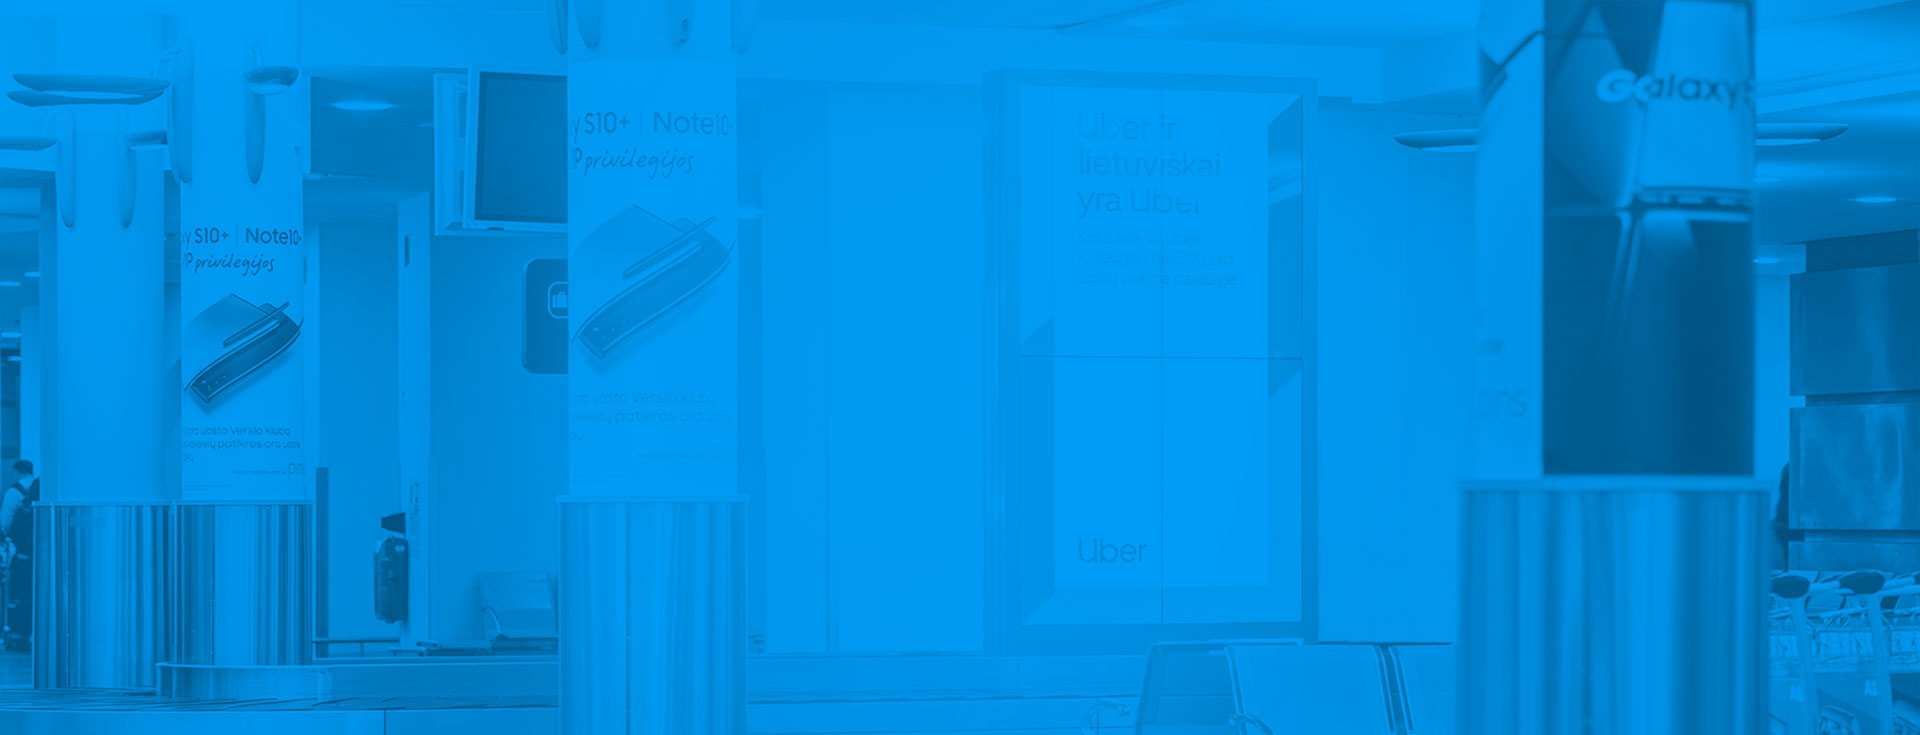
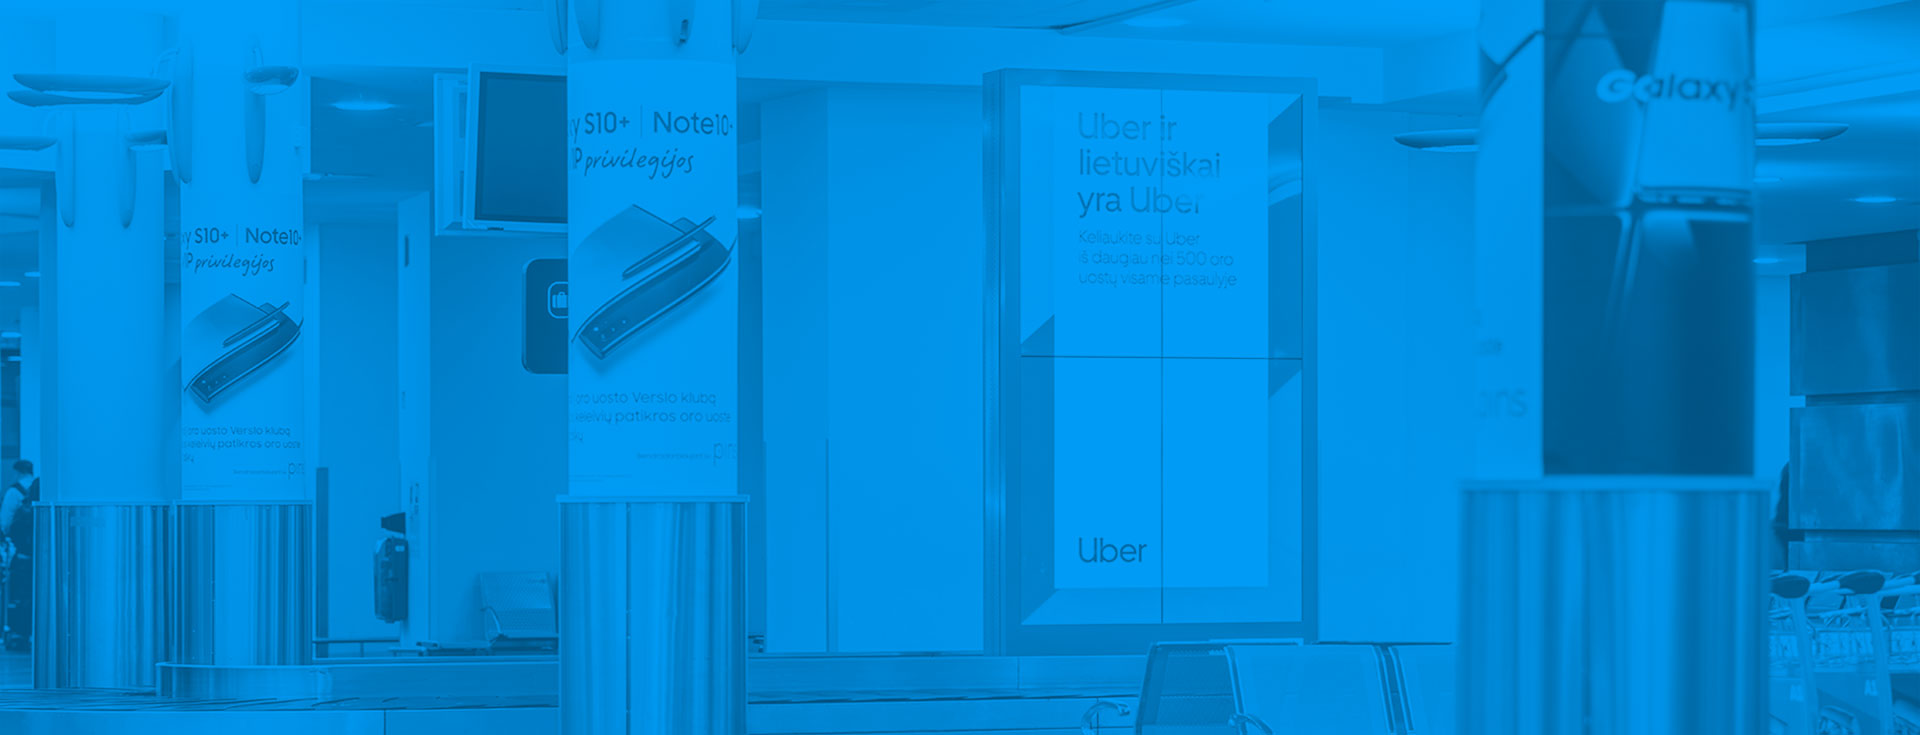
Titulinis: "Susisiekime" section.

diff --git a/assets/header.css b/assets/header.css
@@ -10,7 +10,7 @@
 }
 
 .header {
-  background-image: url("../images/header-2.jpg");
+  background-image: url("../images/header-1.jpg");
   background-position: center;
   width: 100%;
 }

diff --git a/assets/style.css b/assets/style.css
@@ -11,7 +11,7 @@
 }
 
 .header {
-  background-image: url("../images/header-2.jpg");
+  background-image: url("../images/header-1.jpg");
   background-position: center;
   width: 100%;
 }

diff --git a/assets/header.scss b/assets/header.scss
@@ -14,7 +14,7 @@
 
 .header {
 
-  background-image: url("../images/header-2.jpg");
+  background-image: url("../images/header-1.jpg");
   background-position: center;
   width: 100%;
 

diff --git a/footer.php b/footer.php
@@ -4,9 +4,7 @@ $footer = "<footer class=\"footer\">
         <button class=\"btn col-sm-12 col-md-8\">Pradėti naudotis</button>
         <div class=\"footer-info\">
             <h3>Reikalinga papildoma informacija?<br> Susisiekime!</h3>
-            <a href=\"tel:+37000000000\">+370 000 000 00</a>
             <br>
-            <a href=\"mailto:info@orouostai.lt\">info@orouostai.lt</a>
         </div>
         <button class=\"btn col-sm-12 col-md-2 mt-5\">
         <a class='text-white' href='duk.php'>D.U.K</a>
